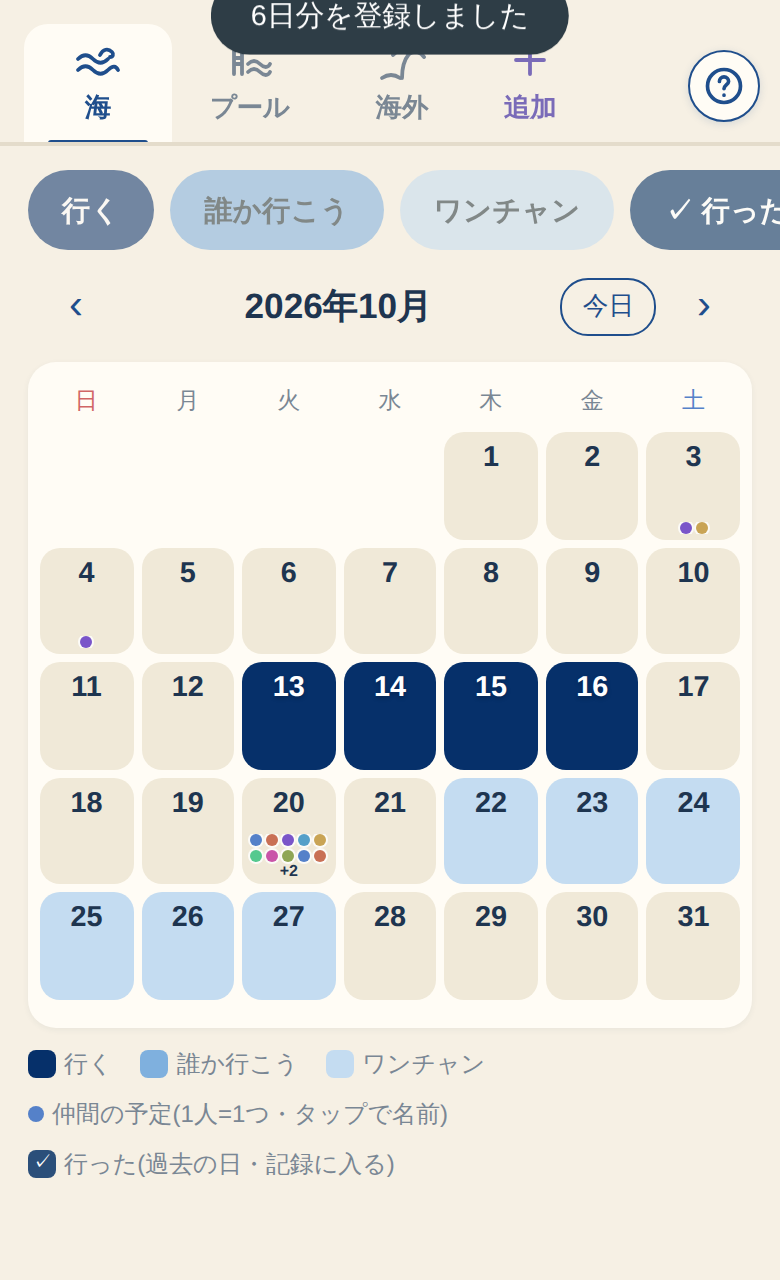
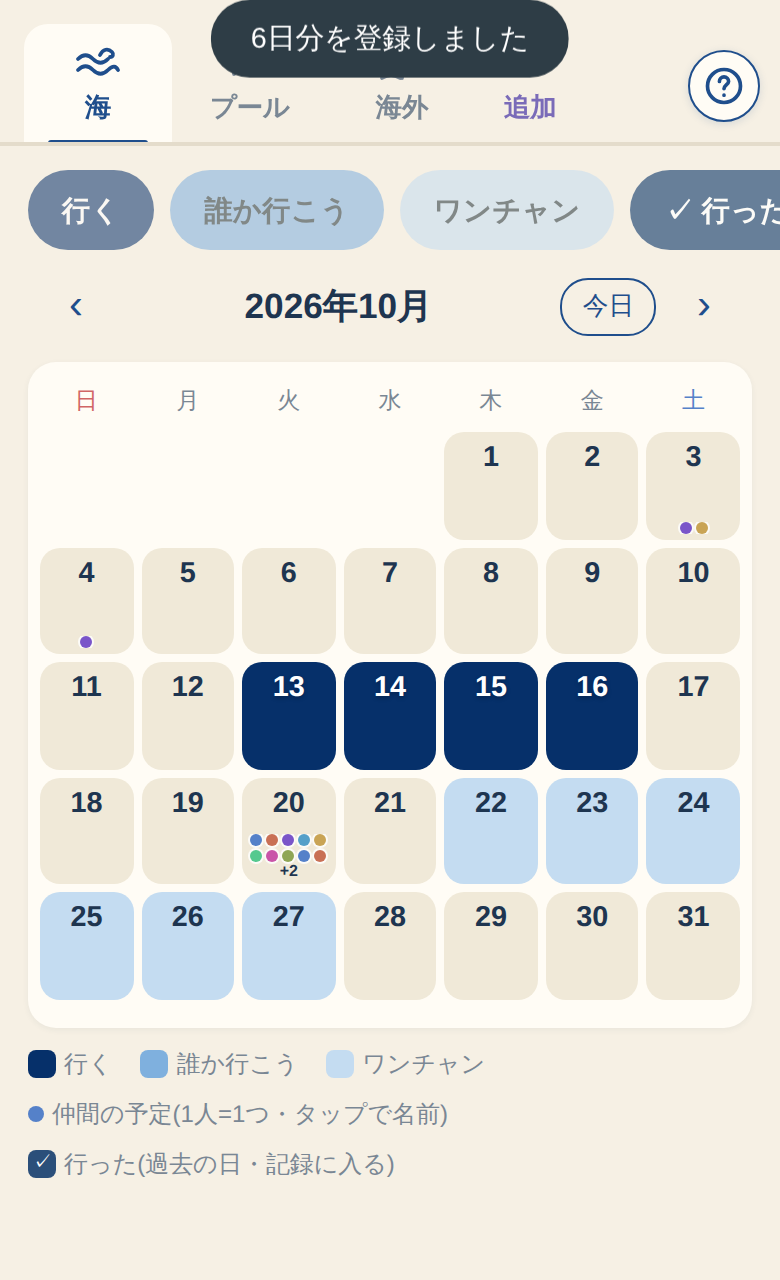
仲間一覧をコンパクトに(1行44px)。名前検索を追加
- 行の高さを約半分に。アバター小さめ、更新日は名前の横に
- 「見せる / 見たい」のラベルは列見出しに1回だけ。説明は「?」で開く
- 名前・メモ名で絞り込む検索欄(カタカナ/ひらがな、全角半角、大文字小文字の違いは無視)
- 「全員に見せる / 全員に見せない」を小さなボタンに

Claude-Session: https://claude.ai/code/session_01YJ4aJdBi8Pih4aaSyeuZ7k

Changed region(s): [[0.2462, 0.0, 0.7385, 0.0625]]

diff --git a/index.html b/index.html
@@ -274,6 +274,22 @@ h2 .hi, h1 .hi{width:22px; height:22px; vertical-align:-5px;}
 .check{width:26px; height:26px; accent-color:var(--accent); flex-shrink:0;}
 .toggle-col{display:flex; flex-direction:column; align-items:center; gap:2px; min-width:48px;}
 .toggle-col.disabled{opacity:.35;}
+/* 仲間一覧(コンパクト) */
+.nk-head{display:flex; align-items:center; gap:8px; padding:0 0 8px;}
+.nk-search{flex:1; min-width:0; display:flex; align-items:center; gap:6px; background:var(--bg); border-radius:10px; padding:0 10px; min-height:38px; color:var(--sub);}
+.nk-search input{flex:1; width:100%; min-width:0; border:none; background:transparent; font-size:.95rem; padding:8px 0; outline:none; color:var(--text);}
+.nk-search input::-webkit-search-cancel-button{-webkit-appearance:none;}
+.nk-all{color:var(--accent); background:var(--accent-weak); border-radius:10px; min-height:38px; padding:0 10px; font-size:.8rem; font-weight:700; white-space:nowrap;}
+.nk-cols{display:flex; align-items:center; gap:0; padding:0 4px 4px; border-bottom:1px solid var(--line); font-size:.7rem; color:var(--sub); font-weight:700;}
+.nk-cols span:not(.spacer){width:44px; text-align:center;}
+.member-row.compact{gap:0; padding:0 4px; min-height:44px;}
+.member-row.compact .member-name-btn{gap:8px; min-height:44px; min-width:0;}
+.member-row.compact .avatar{width:28px; height:28px; font-size:.8rem;}
+.member-row.compact .nk-name{display:flex; align-items:baseline; gap:8px; min-width:0; font-size:.95rem;}
+.member-row.compact .nk-name b{white-space:nowrap; overflow:hidden; text-overflow:ellipsis;}
+.member-row.compact .nk-last{font-size:.7rem; white-space:nowrap;}
+.member-row.compact .toggle-col{min-width:44px; width:44px; min-height:44px; justify-content:center;}
+.member-row.compact .check{width:22px; height:22px;}
 .mylist-day{display:flex; align-items:center; gap:8px; padding:8px 2px; border-bottom:1px solid var(--line); font-size:.92rem;}
 .mylist-day:last-child{border-bottom:none;}
 .intent-tag{color:#fff; font-size:.72rem; font-weight:700; border-radius:6px; padding:3px 8px; white-space:nowrap;}
@@ -355,6 +371,7 @@ h2 .hi, h1 .hi{width:22px; height:22px; vertical-align:-5px;}
   <symbol id="i-memo" viewBox="0 0 24 24"><path d="M4 20l4-1L19 8l-3-3L5 16z"/><path d="M13 7l3 3"/></symbol>
   <symbol id="i-trash" viewBox="0 0 24 24"><path d="M4 7h16M9 7V4h6v3M6 7l1 13h10l1-13M10 11v6M14 11v6"/></symbol>
   <symbol id="i-help" viewBox="0 0 24 24"><circle cx="12" cy="12" r="9"/><path d="M9.5 9.5a2.5 2.5 0 015 0c0 1.5-2.5 2-2.5 4M12 17h.01"/></symbol>
+  <symbol id="i-search" viewBox="0 0 24 24"><circle cx="11" cy="11" r="6.5"/><path d="M16 16l5 5"/></symbol>
   <symbol id="i-person" viewBox="0 0 24 24"><circle cx="12" cy="8" r="4"/><path d="M4.5 21c.5-4.5 4-7 7.5-7s7 2.5 7.5 7"/></symbol>
 </svg>
 <div id="spinner"><div class="spin"></div></div>
@@ -2755,38 +2772,59 @@ async function renderNakama(){
     return;
   }
   const allShared = others.every(m => state.sharesTo.has(m.id));
+  const q = ($('nakama-search') && $('nakama-search').value) || '';
   $('nakama-list').innerHTML = `
-    <div class="row" style="padding:4px 4px 10px; border-bottom:1px solid var(--line)">
-      <span class="sub" style="flex:1">見せる=自分の予定を見せる相手<br>見たい=その人の予定をカレンダーに重ねる</span>
-      <button class="btn secondary" style="width:auto; min-height:40px; padding:0 12px; font-size:.85rem"
-        onclick="shareAll(${allShared ? 'false' : 'true'})">${allShared ? '全員に見せるのをやめる' : '全員に見せる'}</button>
-    </div>` + others.map(m => {
+    <div class="nk-head">
+      <div class="nk-search"><svg class="ic" style="width:16px;height:16px;stroke-width:2.2"><use href="#i-search"/></svg>
+        <input id="nakama-search" type="search" placeholder="名前で検索" value="${esc(q)}" autocomplete="off" autocorrect="off" oninput="filterNakama(this.value)"></div>
+      <button class="nk-all" onclick="shareAll(${allShared ? 'false' : 'true'})">${allShared ? '全員に見せない' : '全員に見せる'}</button>
+      <button class="mini-help" onclick="toggleEl('nk-note')" aria-label="説明">?</button>
+    </div>
+    <div id="nk-note" class="sub hidden" style="font-size:.78rem; padding:0 4px 8px">見せる = 自分の予定をその人に見せる<br>見たい = その人の予定を自分のカレンダーに重ねる(相手が見せてくれている人だけ)</div>
+    <div class="nk-cols"><span class="spacer"></span><span>見せる</span><span>見たい</span></div>
+    <div id="nakama-rows">` + others.map(m => {
     const see = canSee(m.id);
     const dot = hasRedDot(m) ? '<span class="reddot-inline"></span>' : '';
-    const last = !see ? '予定は非公開'
+    const last = !see ? '非公開'
       : m.last_activity_at
-        ? `最終更新 ${new Date(m.last_activity_at).toLocaleDateString('ja-JP',{month:'numeric',day:'numeric'})}`
-        : 'まだ予定なし';
-    return `<div class="member-row">
+        ? `${new Date(m.last_activity_at).toLocaleDateString('ja-JP',{month:'numeric',day:'numeric'})} 更新`
+        : '予定なし';
+    return `<div class="member-row compact" data-search="${esc(searchKey(m))}">
       <button class="member-name-btn" onclick="openProfile('${m.id}')">
         <span class="avatar" style="background:${memberColor(m.id)}">${esc(m.name[0])}</span>
-        <span><b>${esc(memberName(m.id))}</b>${dot}<br><span class="sub">${last}</span></span>
+        <span class="nk-name"><b>${esc(memberName(m.id))}</b>${dot}<span class="sub nk-last">${last}</span></span>
       </button>
       <label class="toggle-col">
         <input type="checkbox" class="check" ${state.sharesTo.has(m.id) ? 'checked' : ''}
-          onchange="toggleShare('${m.id}', this.checked)">
-        <span class="sub">見せる</span>
+          onchange="toggleShare('${m.id}', this.checked)" aria-label="見せる">
       </label>
       <label class="toggle-col ${see ? '' : 'disabled'}">
         <input type="checkbox" class="check" ${see && state.follows.has(m.id) ? 'checked' : ''} ${see ? '' : 'disabled'}
-          onchange="toggleFollow('${m.id}', this.checked)">
-        <span class="sub">見たい</span>
+          onchange="toggleFollow('${m.id}', this.checked)" aria-label="見たい">
       </label>
     </div>`;
-  }).join('');
+  }).join('') + `</div><p class="sub nk-empty hidden" style="padding:12px 4px">該当する名前がありません</p>`;
+  if (q) filterNakama(q);
 
   // この画面を見た=既読。赤丸を消す(表示上は次回から消える)
   await markAllSeen();
+}
+
+/* 名前検索(登録名・メモ名。カタカナ/ひらがな・大文字小文字・全角半角の違いは無視) */
+function normKana(t){
+  return String(t || '').toLowerCase().normalize('NFKC')
+    .replace(/[\u30a1-\u30f6]/g, ch => String.fromCharCode(ch.charCodeAt(0) - 0x60));
+}
+function searchKey(m){ return normKana(m.name + ' ' + (state.aliases[m.id] || '')); }
+function filterNakama(q){
+  const key = normKana(q.trim());
+  let shown = 0;
+  document.querySelectorAll('#nakama-rows .member-row').forEach(r => {
+    const hit = !key || r.dataset.search.includes(key);
+    r.classList.toggle('hidden', !hit); if (hit) shown++;
+  });
+  const empty = document.querySelector('#nakama-list .nk-empty');
+  if (empty) empty.classList.toggle('hidden', shown > 0);
 }
 
 async function markAllSeen(){
